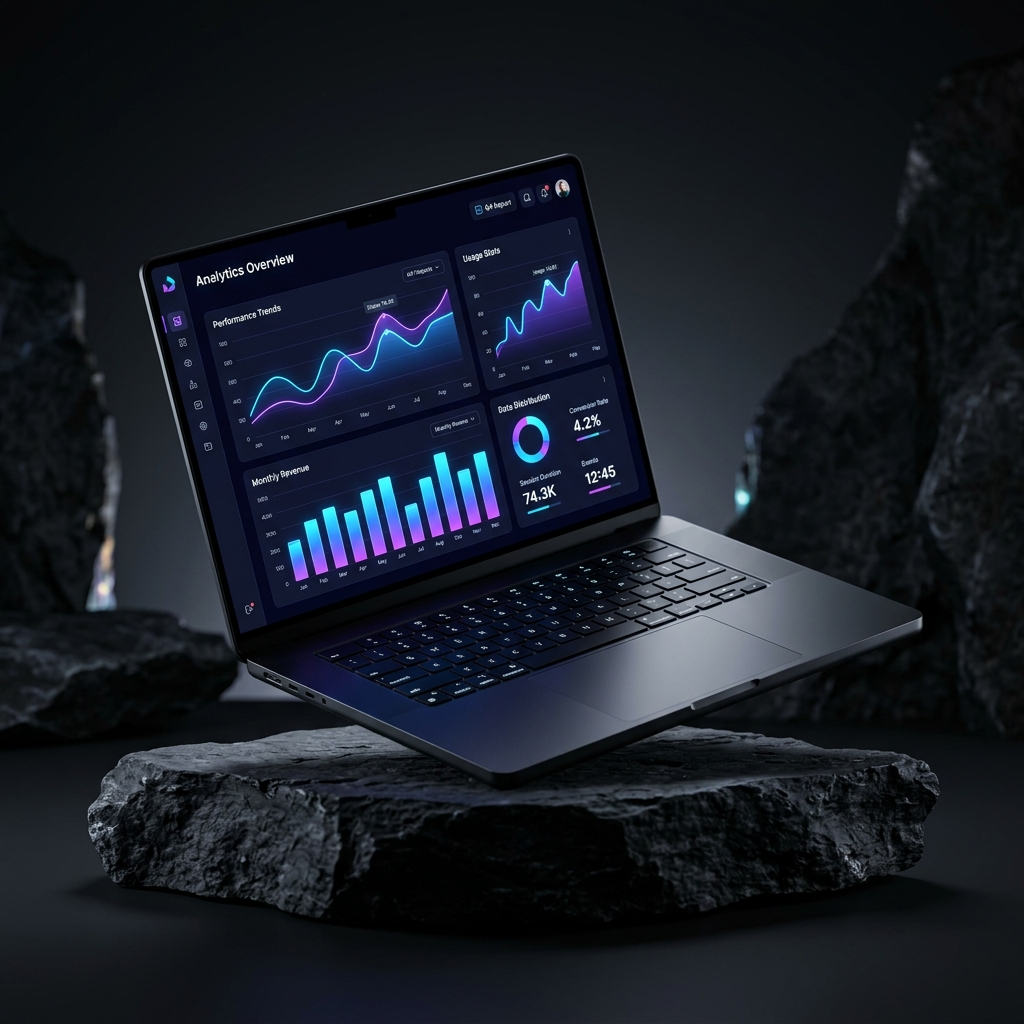
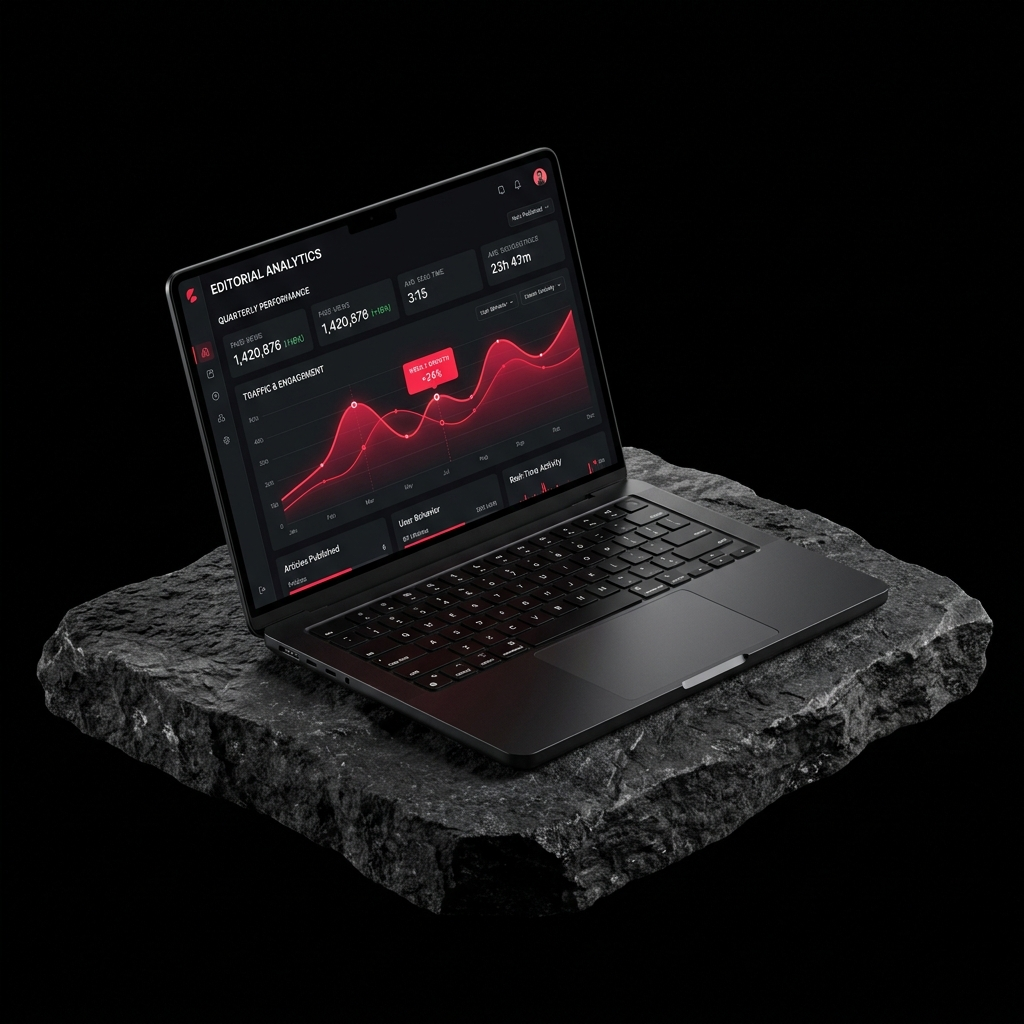
style(landing): match laptop rock visual with pitch-black site background and crimson theme

diff --git a/src/app/landing/LandingPage.tsx b/src/app/landing/LandingPage.tsx
@@ -314,7 +314,7 @@ export default function LandingPage() {
             </ScrollSlide>
           </div>
 
-          {/* Right Column: 3D Laptop Dashboard Showcase matching reference */}
+          {/* Right Column: Crimson-Themed 3D Laptop on Rock */}
           <ScrollSlide direction="right">
             <div style={{
               position: 'relative',
@@ -325,114 +325,48 @@ export default function LandingPage() {
               justifyContent: 'center',
               alignItems: 'center'
             }}>
-              {/* Backlight Ambient Glow */}
+              {/* Crimson Theme Ambient Glow */}
               <div style={{
                 position: 'absolute',
                 top: '50%',
                 left: '50%',
                 transform: 'translate(-50%, -50%)',
-                width: '110%',
-                height: '110%',
-                background: 'radial-gradient(ellipse at center, rgba(147, 51, 234, 0.22) 0%, rgba(59, 130, 246, 0.16) 40%, transparent 72%)',
-                filter: 'blur(40px)',
+                width: '120%',
+                height: '120%',
+                background: 'radial-gradient(ellipse at center, rgba(252, 28, 70, 0.12) 0%, rgba(255, 255, 255, 0.02) 40%, transparent 70%)',
+                filter: 'blur(50px)',
                 pointerEvents: 'none',
                 zIndex: 0
               }} />
 
-              {/* Laptop & Dashboard Card Wrapper */}
+              {/* Seamless Laptop on Rock Visual */}
               <div style={{
                 position: 'relative',
                 width: '100%',
-                borderRadius: '24px',
-                overflow: 'hidden',
-                border: '1px solid rgba(255, 255, 255, 0.1)',
-                background: 'linear-gradient(145deg, rgba(20, 20, 25, 0.9) 0%, rgba(8, 8, 12, 0.95) 100%)',
-                boxShadow: '0 30px 80px rgba(0, 0, 0, 0.85), 0 0 50px rgba(130, 60, 255, 0.12)',
-                transition: 'transform 0.4s ease, box-shadow 0.4s ease',
+                display: 'flex',
+                justifyContent: 'center',
+                alignItems: 'center',
+                transition: 'transform 0.4s cubic-bezier(0.16, 1, 0.3, 1)',
                 zIndex: 1
               }}
               onMouseEnter={e => {
-                e.currentTarget.style.transform = 'translateY(-6px) scale(1.01)';
-                e.currentTarget.style.boxShadow = '0 40px 100px rgba(0, 0, 0, 0.95), 0 0 70px rgba(130, 60, 255, 0.2)';
+                e.currentTarget.style.transform = 'translateY(-8px) scale(1.02)';
               }}
               onMouseLeave={e => {
                 e.currentTarget.style.transform = 'translateY(0) scale(1)';
-                e.currentTarget.style.boxShadow = '0 30px 80px rgba(0, 0, 0, 0.85), 0 0 50px rgba(130, 60, 255, 0.12)';
               }}
               >
-                {/* 3D Angled Laptop Showcase Image */}
                 <img
                   src="/images/hero-dashboard-mockup.jpg"
-                  alt="ContentPulse Realtime Editorial Analytics Dashboard on Laptop"
+                  alt="ContentPulse Editorial Intelligence Dashboard"
                   style={{
                     width: '100%',
                     height: 'auto',
                     display: 'block',
-                    borderRadius: '22px',
-                    filter: 'contrast(1.06) brightness(1.02)'
+                    borderRadius: '16px',
+                    filter: 'contrast(1.04) brightness(1.02)'
                   }}
                 />
-
-                {/* Floating Top-Right Realtime Status Badge */}
-                <div style={{
-                  position: 'absolute',
-                  top: '18px',
-                  right: '18px',
-                  background: 'rgba(10, 12, 18, 0.85)',
-                  backdropFilter: 'blur(12px)',
-                  WebkitBackdropFilter: 'blur(12px)',
-                  border: '1px solid rgba(255, 255, 255, 0.15)',
-                  borderRadius: '9999px',
-                  padding: '6px 14px',
-                  display: 'flex',
-                  alignItems: 'center',
-                  gap: '8px',
-                  boxShadow: '0 8px 24px rgba(0,0,0,0.6)',
-                  pointerEvents: 'none'
-                }}>
-                  <span style={{
-                    width: '8px',
-                    height: '8px',
-                    borderRadius: '9999px',
-                    background: '#10b981',
-                    boxShadow: '0 0 8px #10b981',
-                    display: 'inline-block'
-                  }} />
-                  <span style={{ fontSize: '11px', fontWeight: 600, color: '#ffffff', letterSpacing: '0.02em', textTransform: 'uppercase' }}>
-                    Live Pulse • +43%
-                  </span>
-                </div>
-
-                {/* Floating Bottom-Left Resonance Pill */}
-                <div style={{
-                  position: 'absolute',
-                  bottom: '18px',
-                  left: '18px',
-                  background: 'rgba(12, 14, 22, 0.88)',
-                  backdropFilter: 'blur(12px)',
-                  WebkitBackdropFilter: 'blur(12px)',
-                  border: '1px solid rgba(147, 51, 234, 0.35)',
-                  borderRadius: '14px',
-                  padding: '10px 16px',
-                  display: 'flex',
-                  flexDirection: 'column',
-                  gap: '4px',
-                  boxShadow: '0 12px 30px rgba(0,0,0,0.7)',
-                  pointerEvents: 'none'
-                }}>
-                  <div style={{ display: 'flex', justifyContent: 'space-between', alignItems: 'center', gap: '12px' }}>
-                    <span style={{ fontSize: '10px', color: '#94a3b8', textTransform: 'uppercase', letterSpacing: '0.06em', fontWeight: 600 }}>
-                      NLP Resonance Score
-                    </span>
-                    <span style={{ fontSize: '12px', color: '#a855f7', fontWeight: 700 }}>
-                      94.8 / 100
-                    </span>
-                  </div>
-                  <div style={{ width: '130px', height: '3px', background: 'rgba(255,255,255,0.1)', borderRadius: '2px', overflow: 'hidden' }}>
-                    <div style={{ width: '94.8%', height: '100%', background: 'linear-gradient(90deg, #3b82f6, #a855f7)' }} />
-                  </div>
-                </div>
-
               </div>
             </div>
           </ScrollSlide>
